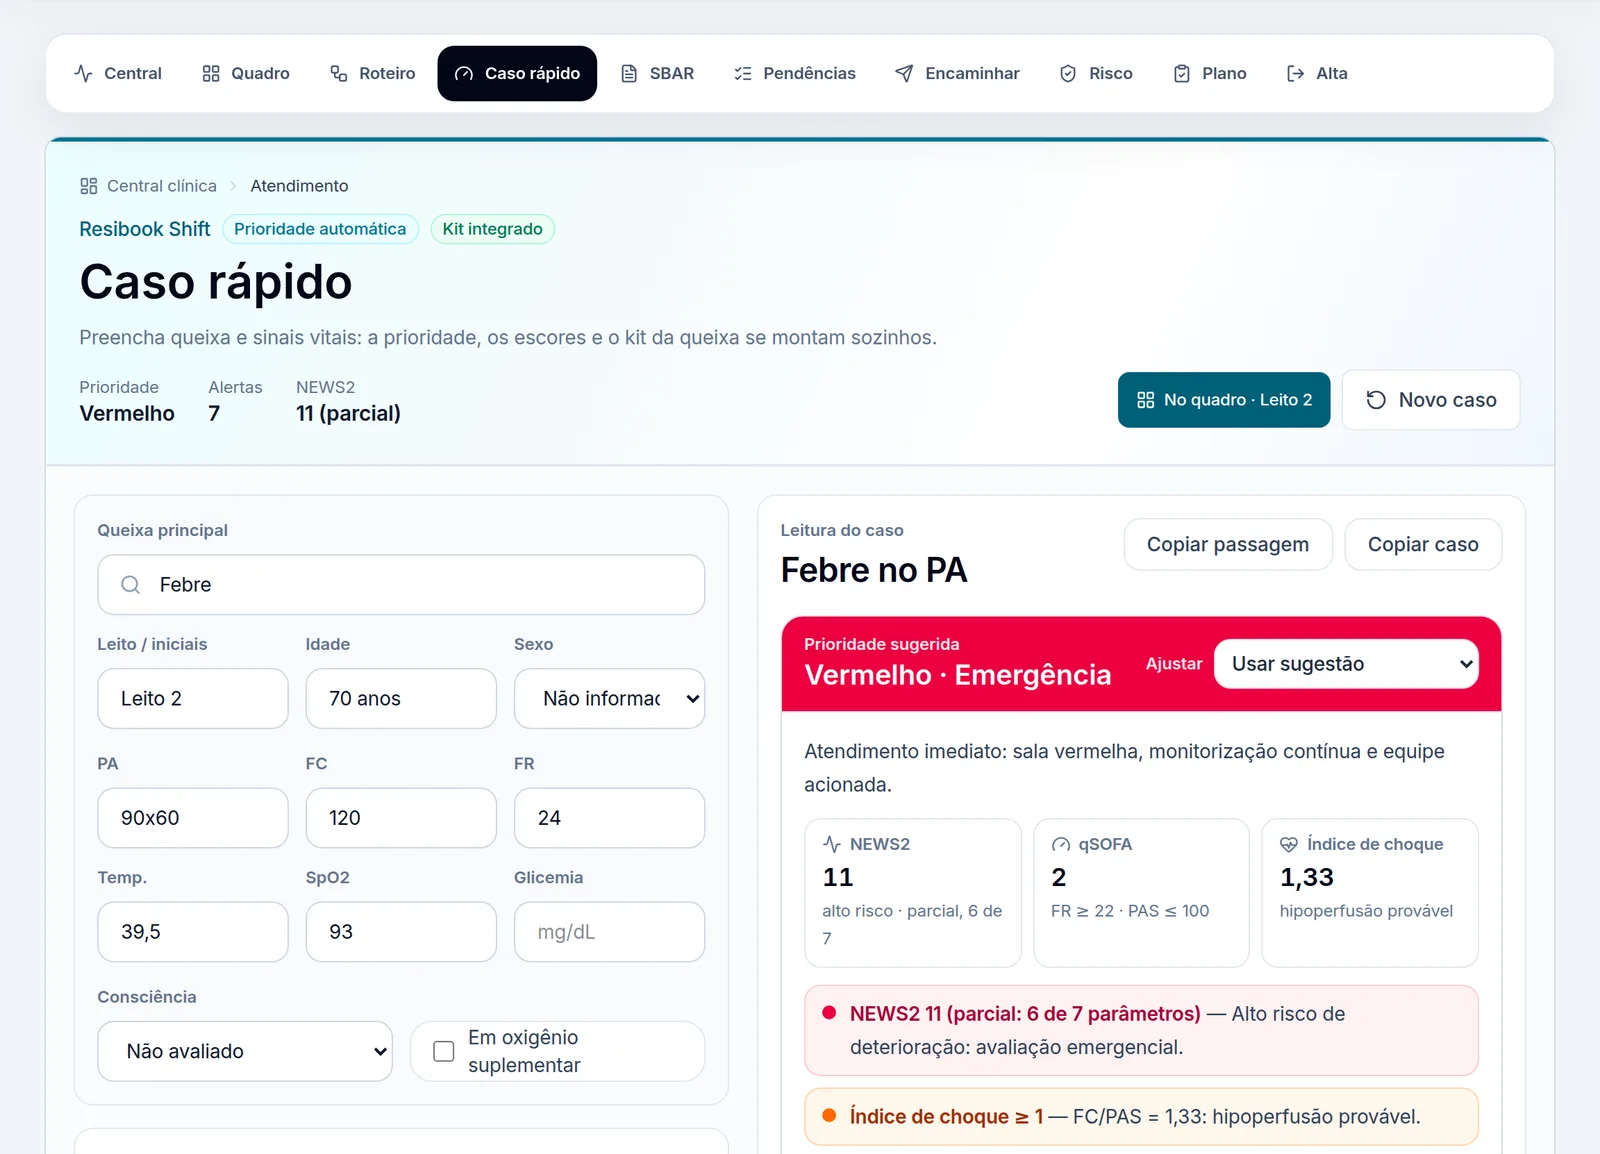
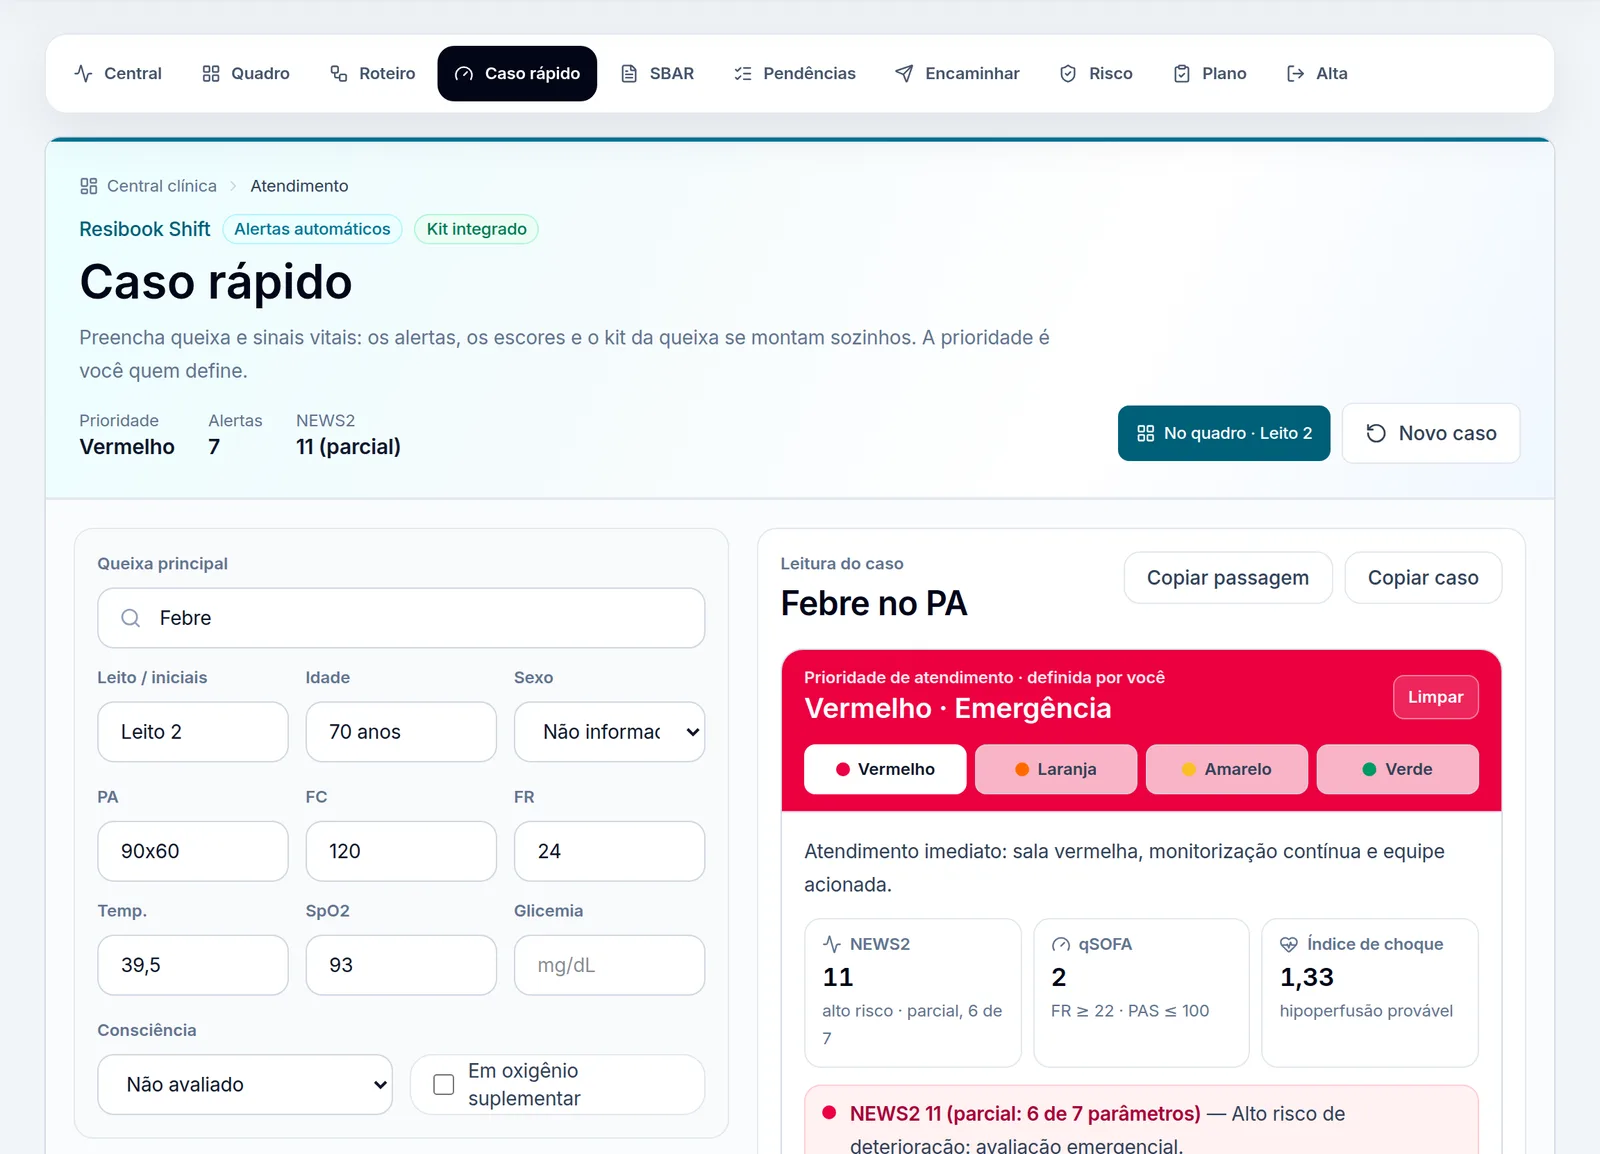
Shift: prioridade só por escolha do médico
A leitura dos sinais vitais continua mostrando escores e alertas com
gravidade, mas não define mais a cor do paciente. Sem escolha, o caso
fica com prioridade a definir e vem primeiro no quadro. Textos da
Central, do Caso rápido e da landing e imagens da galeria atualizados.
Reduz o risco de o recurso ser enquadrado como triagem automática
(software como dispositivo médico).

Claude-Session: https://claude.ai/code/session_01BC7u5bWR6f3uJqeSiqWQZm

diff --git a/src/components/shift/painel-triagem.tsx b/src/components/shift/painel-triagem.tsx
@@ -5,7 +5,7 @@ import {
   type LeituraTriagem,
   type NivelPrioridade,
 } from "@/lib/shift/triagem";
-import { COR_PRIORIDADE, NOME_COR } from "./prioridade";
+import { COR_PRIORIDADE, NOME_COR, NOME_GRAVIDADE } from "./prioridade";
 
 const FAIXA_NEWS2: Record<string, string> = {
   baixo: "baixo risco",
@@ -27,7 +27,8 @@ function Escore({ icone: Icone, nome, valor, detalhe }: { icone: typeof Gauge; n
   );
 }
 
-/* Prioridade sugerida, escolha manual, escores e alertas do caso. */
+/* Prioridade escolhida pelo médico, escores e alertas do caso. O sistema
+   não sugere prioridade: só lê os valores e mostra alertas. */
 export default function PainelTriagem({
   leitura,
   manual,
@@ -37,40 +38,50 @@ export default function PainelTriagem({
   manual: NivelPrioridade | null;
   onManual: (nivel: NivelPrioridade | null) => void;
 }) {
-  const final = manual ?? leitura.prioridade;
-  const cor = final ? COR_PRIORIDADE[final] : null;
+  const cor = manual ? COR_PRIORIDADE[manual] : null;
 
   return (
     <section id="leitura-caso" aria-label="Prioridade e alertas" className="scroll-mt-24 overflow-hidden rounded-2xl border border-slate-200 bg-white">
-      <div className={`flex flex-wrap items-center justify-between gap-3 px-4 py-3 ${cor ? cor.faixa : "bg-slate-100 text-slate-700"}`}>
-        <div>
-          <p className="text-xs font-semibold opacity-90">{manual ? "Prioridade escolhida" : "Prioridade sugerida"}</p>
-          <p className="text-xl font-semibold">{final ? `${NOME_COR[final]} · ${PRIORIDADES[final].rotulo}` : "Preencha os sinais vitais"}</p>
+      <div className={`px-4 py-3 ${cor ? cor.faixa : "bg-slate-100 text-slate-700"}`}>
+        <div className="flex flex-wrap items-center justify-between gap-2">
+          <div>
+            <p className="text-xs font-semibold opacity-90">Prioridade de atendimento · definida por você</p>
+            <p className="text-xl font-semibold">{manual ? `${NOME_COR[manual]} · ${PRIORIDADES[manual].rotulo}` : "A definir"}</p>
+          </div>
+          {manual ? (
+            <button
+              type="button"
+              onClick={() => onManual(null)}
+              className="h-8 rounded-lg border border-white/40 bg-white/15 px-2.5 text-xs font-semibold transition hover:bg-white/25"
+            >
+              Limpar
+            </button>
+          ) : null}
         </div>
-        <label className="flex items-center gap-2 text-xs font-semibold">
-          <span className="opacity-90">Ajustar</span>
-          <select
-            value={manual ?? ""}
-            onChange={(event) => onManual((event.target.value || null) as NivelPrioridade | null)}
-            className="h-9 rounded-lg border border-white/40 bg-white px-2 text-sm font-medium text-slate-800 outline-none"
-          >
-            <option value="">Usar sugestão</option>
-            {ORDEM_PRIORIDADE.map((nivel) => (
-              <option key={nivel} value={nivel}>
-                {NOME_COR[nivel]} · {PRIORIDADES[nivel].rotulo}
-              </option>
-            ))}
-          </select>
-        </label>
+        <div role="radiogroup" aria-label="Escolher prioridade" className="mt-3 grid grid-cols-2 gap-1.5 sm:grid-cols-4">
+          {ORDEM_PRIORIDADE.map((nivel) => {
+            const ativo = manual === nivel;
+            return (
+              <button
+                key={nivel}
+                type="button"
+                role="radio"
+                aria-checked={ativo}
+                onClick={() => onManual(nivel)}
+                className={`flex h-9 items-center justify-center gap-1.5 rounded-lg border px-2 text-xs font-semibold transition ${
+                  ativo ? "border-white bg-white text-slate-900 shadow-sm" : "border-slate-300/60 bg-white/70 text-slate-700 hover:bg-white"
+                }`}
+              >
+                <span className={`h-2.5 w-2.5 shrink-0 rounded-full ${COR_PRIORIDADE[nivel].ponto}`} aria-hidden="true" />
+                {NOME_COR[nivel]}
+              </button>
+            );
+          })}
+        </div>
       </div>
 
       <div className="space-y-3 p-4">
-        {final ? <p className="text-sm leading-6 text-slate-700">{PRIORIDADES[final].descricao}</p> : null}
-        {manual && leitura.prioridade && manual !== leitura.prioridade ? (
-          <p className="text-xs text-slate-500">
-            Sugestão pelos dados: {NOME_COR[leitura.prioridade]} · {PRIORIDADES[leitura.prioridade].rotulo}.
-          </p>
-        ) : null}
+        {manual ? <p className="text-sm leading-6 text-slate-700">{PRIORIDADES[manual].descricao}</p> : null}
 
         {leitura.news2 || leitura.qsofa || leitura.indiceChoque !== null ? (
           <div className="grid grid-cols-3 gap-2">
@@ -109,7 +120,7 @@ export default function PainelTriagem({
                 <span className="min-w-0 text-sm leading-6">
                   <span className={`font-semibold ${COR_PRIORIDADE[item.nivel].texto}`}>{item.titulo}</span>
                   <span className="text-slate-700"> — {item.detalhe}</span>
-                  <span className="sr-only"> (nível {NOME_COR[item.nivel]})</span>
+                  <span className="sr-only"> (gravidade: {NOME_GRAVIDADE[item.nivel]})</span>
                 </span>
               </li>
             ))}
@@ -128,7 +139,7 @@ export default function PainelTriagem({
           </p>
         ))}
         <p className="text-[11px] leading-5 text-slate-400">
-          Sugestão por regras fixas (cores no padrão de classificação de risco). Não substitui o protocolo de acolhimento do seu serviço.
+          Os alertas leem os valores preenchidos por regras fixas e não classificam o paciente. A prioridade é sua, conforme o protocolo de acolhimento do seu serviço.
         </p>
       </div>
     </section>

diff --git a/src/app/caso-rapido/page.tsx b/src/app/caso-rapido/page.tsx
@@ -280,7 +280,7 @@ type TextoCaso = {
 function linhaPrioridade(params: TextoCaso) {
   if (!params.prioridade) return "Prioridade: a definir";
   const { rotulo } = PRIORIDADES[params.prioridade];
-  return `Prioridade: ${NOME_COR[params.prioridade]} · ${rotulo}${params.manual ? " (definida pelo médico)" : " (sugerida pelos dados)"}`;
+  return `Prioridade: ${NOME_COR[params.prioridade]} · ${rotulo} (definida pelo médico)`;
 }
 
 function linhaEscores(leitura: LeituraTriagem) {
@@ -436,7 +436,7 @@ export default function CasoRapidoPage() {
     [age, vitals, consciencia, oxigenio, sinaisPresentes, redFlags]
   );
 
-  const prioridade = manual ?? leitura.prioridade;
+  const prioridade = manual;
   const severity = gravidadeLegada(prioridade);
 
   const alerts = useMemo<CaseAlert[]>(
@@ -571,9 +571,9 @@ export default function CasoRapidoPage() {
       <ModulePageHeader
         eyebrow="Resibook Shift"
         title="Caso rápido"
-        description="Preencha queixa e sinais vitais: a prioridade, os escores e o kit da queixa se montam sozinhos."
+        description="Preencha queixa e sinais vitais: os alertas, os escores e o kit da queixa se montam sozinhos. A prioridade é você quem define."
         badges={[
-          { label: "Prioridade automática", tone: "cyan" },
+          { label: "Alertas automáticos", tone: "cyan" },
           { label: "Kit integrado", tone: "emerald" },
         ]}
         metrics={[
@@ -669,19 +669,19 @@ export default function CasoRapidoPage() {
               </div>
             </div>
 
-            {prioridade ? (
+            {prioridade || leitura.alertas.length ? (
               <a
                 href="#leitura-caso"
-                className={`flex items-center justify-between gap-3 rounded-2xl px-4 py-3 text-sm font-semibold xl:hidden ${COR_PRIORIDADE[prioridade].faixa}`}
+                className={`flex items-center justify-between gap-3 rounded-2xl px-4 py-3 text-sm font-semibold xl:hidden ${prioridade ? COR_PRIORIDADE[prioridade].faixa : "bg-slate-100 text-slate-800"}`}
               >
                 <span>
-                  {NOME_COR[prioridade]} · {PRIORIDADES[prioridade].rotulo}
+                  {prioridade ? `${NOME_COR[prioridade]} · ${PRIORIDADES[prioridade].rotulo}` : "Prioridade a definir"}
                   <span className="block text-xs font-medium opacity-90">
                     {leitura.alertas.length} {leitura.alertas.length === 1 ? "alerta" : "alertas"}
                     {leitura.news2 ? ` · NEWS2 ${leitura.news2.pontos}` : ""}
                   </span>
                 </span>
-                <span className="text-xs">Ver leitura ↓</span>
+                <span className="text-xs">{prioridade ? "Ver leitura ↓" : "Definir ↓"}</span>
               </a>
             ) : null}
 

diff --git a/src/lib/shift/triagem.ts b/src/lib/shift/triagem.ts
@@ -6,10 +6,11 @@ import {
   scoreNewsTemperature,
 } from "../clinical-calculators.ts";
 
-/* Leitura automática dos dados do caso: sinais vitais, escores de adulto
-   (NEWS2, qSOFA, índice de choque) e prioridade sugerida por cor. Tudo é
-   regra fixa e revisável; a prioridade é sugestão e não substitui o
-   protocolo de classificação de risco do serviço. */
+/* Leitura automática dos dados do caso: valores fora da faixa, escores de
+   adulto (NEWS2, qSOFA, índice de choque) e alertas com nível de gravidade.
+   Tudo é regra fixa e revisável. O sistema não classifica o risco do
+   paciente: a prioridade de atendimento é sempre escolhida pelo médico
+   (ver prioridadeManual no caso). */
 
 export type NivelPrioridade = "vermelho" | "laranja" | "amarelo" | "verde";
 export type Consciencia = "" | "alerta" | "confusao" | "voz" | "dor" | "nao-responde";
@@ -58,7 +59,6 @@ export type LeituraTriagem = {
   alertas: AlertaTriagem[];
   notas: string[];
   preenchidos: number;
-  prioridade: NivelPrioridade | null;
 };
 
 export const ORDEM_PRIORIDADE: NivelPrioridade[] = ["vermelho", "laranja", "amarelo", "verde"];
@@ -297,8 +297,6 @@ export function lerTriagem(entrada: EntradaTriagem): LeituraTriagem {
   }
 
   alertas.sort((a, b) => ORDEM_PRIORIDADE.indexOf(a.nivel) - ORDEM_PRIORIDADE.indexOf(b.nivel));
-  const temDados = preenchidos > 0 || (entrada.sinaisAlarme?.length ?? 0) > 0;
-  const prioridade = maiorPrioridade(alertas.map((item) => item.nivel)) ?? (temDados ? "verde" : null);
 
-  return { idadeAnos, faixaEtaria, pa, indiceChoque, qsofa, news2, alertas, notas, preenchidos, prioridade };
+  return { idadeAnos, faixaEtaria, pa, indiceChoque, qsofa, news2, alertas, notas, preenchidos };
 }

diff --git a/src/lib/shift/quadro.ts b/src/lib/shift/quadro.ts
@@ -181,14 +181,16 @@ export function statusReavaliacao(paciente: Pick<PacienteQuadro, "reavaliarEm">,
 }
 
 export function prioridadePaciente(paciente: PacienteQuadro): NivelPrioridade | null {
-  return prioridadeFinal(leituraDoCaso(paciente.caso).prioridade, paciente.caso.prioridadeManual);
+  return prioridadeFinal(paciente.caso.prioridadeManual);
 }
 
+/* Sem prioridade definida vem antes de todos: falta a avaliação do médico. */
 function rank(nivel: NivelPrioridade | null) {
-  return nivel ? ORDEM_PRIORIDADE.indexOf(nivel) : ORDEM_PRIORIDADE.length;
+  return nivel ? ORDEM_PRIORIDADE.indexOf(nivel) : -1;
 }
 
-/* Mais grave primeiro; no mesmo nível, reavaliação vencida e depois a mais próxima. */
+/* Prioridade a definir primeiro, depois a mais grave; no mesmo nível,
+   reavaliação vencida e depois a mais próxima. */
 export function ordenarPacientes(pacientes: PacienteQuadro[], agora = Date.now()) {
   const chaveTempo = (p: PacienteQuadro) => {
     const status = statusReavaliacao(p, agora);
@@ -247,7 +249,7 @@ export function textoPassagem(quadro: Quadro, agora = Date.now()) {
   const pacientes = ordenarPacientes(quadro.pacientes, agora);
   const cabecalho = [
     `PASSAGEM DE PLANTÃO - RESIBOOK (${pacientes.length} ${pacientes.length === 1 ? "paciente" : "pacientes"}) - ${horario(new Date(agora).toISOString())}`,
-    "Ordem: mais grave primeiro.",
+    "Ordem: prioridade a definir, depois a mais grave.",
   ];
   const blocos = pacientes.map((p, index) => {
     const caso = p.caso;

diff --git a/src/components/shift/central-caso.tsx b/src/components/shift/central-caso.tsx
@@ -123,7 +123,7 @@ function ComecarCaso() {
     <section className="rounded-[24px] border border-slate-200 bg-white p-4 md:p-5">
       <p className="text-[11px] font-semibold uppercase tracking-[0.18em] text-slate-500">Novo atendimento</p>
       <h2 className="mt-1 text-xl font-semibold tracking-tight text-slate-950">Qual é a queixa?</h2>
-      <p className="mt-1 text-sm text-slate-500">Comece pela queixa: a prioridade, os sinais de alarme e o kit se montam a partir dela.</p>
+      <p className="mt-1 text-sm text-slate-500">Comece pela queixa: os sinais de alarme e o kit se montam a partir dela. A prioridade é você quem define.</p>
       <form
         className="mt-4 flex flex-col gap-2 sm:flex-row"
         onSubmit={(event) => {
@@ -165,7 +165,7 @@ function ComecarCaso() {
 function CasoAtivo({ caso }: { caso: ClinicalCaseSession }) {
   const leitura = useMemo(() => leituraDoCaso(caso), [caso]);
   const etapas = useMemo(() => etapasDoCaso(caso), [caso]);
-  const prioridade = prioridadeFinal(leitura.prioridade, caso.prioridadeManual);
+  const prioridade = prioridadeFinal(caso.prioridadeManual);
   const cor = prioridade ? COR_PRIORIDADE[prioridade] : null;
   const vitais = formatCaseVitals(caso);
 

diff --git a/src/components/shift/sinais-alarme.tsx b/src/components/shift/sinais-alarme.tsx
@@ -1,8 +1,8 @@
 import { Check, CheckCheck } from "lucide-react";
 import type { SinalAlarme } from "@/lib/shift/queixas";
-import { COR_PRIORIDADE, NOME_COR } from "./prioridade";
+import { COR_PRIORIDADE, NOME_GRAVIDADE } from "./prioridade";
 
-/* Sinais de alarme da queixa como botões: marcar um sobe a prioridade. */
+/* Sinais de alarme da queixa como botões: marcar um gera um alerta no caso. */
 export default function SinaisAlarme({
   sinais,
   marcados,
@@ -63,7 +63,7 @@ export default function SinaisAlarme({
                   <span className={ativo ? `font-semibold ${cor.texto}` : "text-slate-800"}>{sinal.texto}</span>
                   {ativo && sinal.acao ? <span className="mt-0.5 block text-xs text-slate-600">{sinal.acao}</span> : null}
                 </span>
-                <span className={`mt-1 h-2 w-2 shrink-0 rounded-full ${cor.ponto}`} title={`Sugere ${NOME_COR[sinal.nivel].toLowerCase()}`} aria-hidden="true" />
+                <span className={`mt-1 h-2 w-2 shrink-0 rounded-full ${cor.ponto}`} title={`Gravidade: ${NOME_GRAVIDADE[sinal.nivel]}`} aria-hidden="true" />
               </button>
             </li>
           );

diff --git a/src/lib/shift/caso.ts b/src/lib/shift/caso.ts
@@ -9,8 +9,8 @@ import {
   type NivelPrioridade,
 } from "./triagem.ts";
 
-/* Junta a sessão do caso com o motor de triagem: leitura, prioridade final
-   (sugerida ou escolhida), valores para as calculadoras e etapas do plantão. */
+/* Junta a sessão do caso com a leitura dos dados: alertas e escores, a
+   prioridade escolhida pelo médico, valores para as calculadoras e etapas. */
 
 const CONSCIENCIAS: Consciencia[] = ["", "alerta", "confusao", "voz", "dor", "nao-responde"];
 
@@ -33,8 +33,9 @@ export function leituraDoCaso(caso: ClinicalCaseSession): LeituraTriagem {
   });
 }
 
-export function prioridadeFinal(sugerida: NivelPrioridade | null, manual?: NivelPrioridade | null) {
-  return manual ?? sugerida;
+/* Só o médico define a prioridade; sem escolha, fica "a definir". */
+export function prioridadeFinal(manual?: NivelPrioridade | null) {
+  return manual ?? null;
 }
 
 /* Rótulo antigo de gravidade, ainda lido por pendências, evolução e SBAR. */

diff --git a/src/components/shift/quadro-plantao.tsx b/src/components/shift/quadro-plantao.tsx
@@ -156,7 +156,10 @@ function CartaoPaciente({
               <span className="block font-medium opacity-90">{PRIORIDADES[nivel].rotulo}</span>
             </>
           ) : (
-            "A definir"
+            <>
+              Prioridade
+              <span className="block font-medium opacity-90">a definir</span>
+            </>
           )}
         </p>
       </header>
@@ -410,7 +413,7 @@ export default function QuadroPlantao() {
                 </span>
               ) : null
             )}
-            <span className="text-slate-400">Mais grave primeiro; no mesmo nível, reavaliação vencida antes.</span>
+            <span className="text-slate-400">Prioridade a definir primeiro, depois a mais grave (definida por você); no mesmo nível, reavaliação vencida antes.</span>
           </div>
           <div className="grid gap-4 md:grid-cols-2 xl:grid-cols-3">
             {pacientes.map((paciente) => (

diff --git a/src/components/clinical-case-session-bridge.tsx b/src/components/clinical-case-session-bridge.tsx
@@ -17,7 +17,7 @@ import {
   X,
 } from "lucide-react";
 import { NOME_COR, COR_PRIORIDADE } from "./shift/prioridade";
-import { leituraDoCaso, prioridadeFinal } from "@/lib/shift/caso";
+import { prioridadeFinal } from "@/lib/shift/caso";
 import {
   CLINICAL_CASE_SESSION_EVENT,
   clearClinicalCaseSession,
@@ -152,7 +152,7 @@ export default function ClinicalCaseSessionBridge() {
   if (!activeCase?.complaint) return null;
 
   const query = encodeURIComponent(activeCase.complaint);
-  const prioridade = prioridadeFinal(leituraDoCaso(activeCase).prioridade, activeCase.prioridadeManual);
+  const prioridade = prioridadeFinal(activeCase.prioridadeManual);
   const vitals = Object.entries(activeCase.vitals)
     .filter(([, value]) => value.trim())
     .map(([key, value]) => `${key.toUpperCase()} ${value}`)

diff --git a/src/components/landing-gallery.tsx b/src/components/landing-gallery.tsx
@@ -22,12 +22,12 @@ type Slide = {
 const SLIDES: Slide[] = [
   {
     id: "caso-rapido",
-    label: "Prioridade automática",
-    title: "Sinais vitais viram prioridade",
+    label: "Caso rápido",
+    title: "Sinais vitais lidos na hora",
     description:
-      "Digite a queixa e os sinais vitais: NEWS2, qSOFA e índice de choque se calculam sozinhos e sugerem a cor da prioridade.",
+      "Digite a queixa e os sinais vitais: NEWS2, qSOFA, índice de choque e alertas se calculam sozinhos. A prioridade é você quem define.",
     image: casoRapido,
-    alt: "Caso rápido do Resibook com febre, prioridade vermelha sugerida, NEWS2, qSOFA e índice de choque",
+    alt: "Caso rápido do Resibook com febre, alertas de sinais vitais, NEWS2, qSOFA e índice de choque",
   },
   {
     id: "quadro",

diff --git a/src/app/plantao/page.tsx b/src/app/plantao/page.tsx
@@ -116,9 +116,9 @@ export default function PlantaoPage() {
       <ModulePageHeader
         eyebrow="Resibook Shift"
         title="Central de plantão"
-        description="O caso ativo no centro: prioridade sugerida pelos sinais vitais, etapas do atendimento e o kit da queixa com conduta, calculadoras e fluxogramas."
+        description="O caso ativo no centro: alertas dos sinais vitais, prioridade definida por você, etapas do atendimento e o kit da queixa com conduta, calculadoras e fluxogramas."
         badges={[
-          { label: "Prioridade automática", tone: "cyan" },
+          { label: "Alertas automáticos", tone: "cyan" },
           { label: "Etapas do atendimento", tone: "emerald" },
         ]}
         actions={

diff --git a/src/app/page.tsx b/src/app/page.tsx
@@ -53,8 +53,8 @@ const NAV_LINKS = [
 
 const SHIFT_STEPS: { title: string; description: string; icon: IconType }[] = [
   {
-    title: "Caso e prioridade",
-    description: "Digite a queixa e os sinais vitais: prioridade sugerida, red flags clicáveis e conduta já contextualizados.",
+    title: "Caso e alertas",
+    description: "Digite a queixa e os sinais vitais: escores, alertas e red flags clicáveis na hora, conduta contextualizada e a prioridade definida por você.",
     icon: Search,
   },
   {
